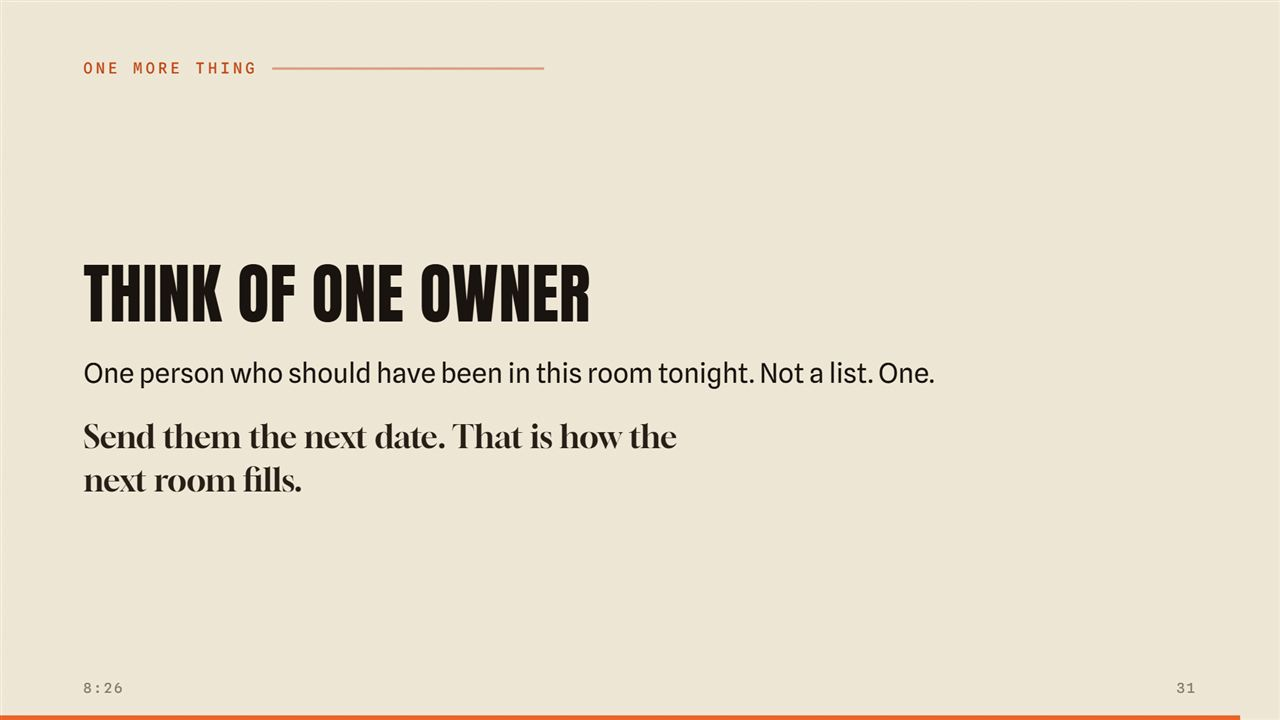
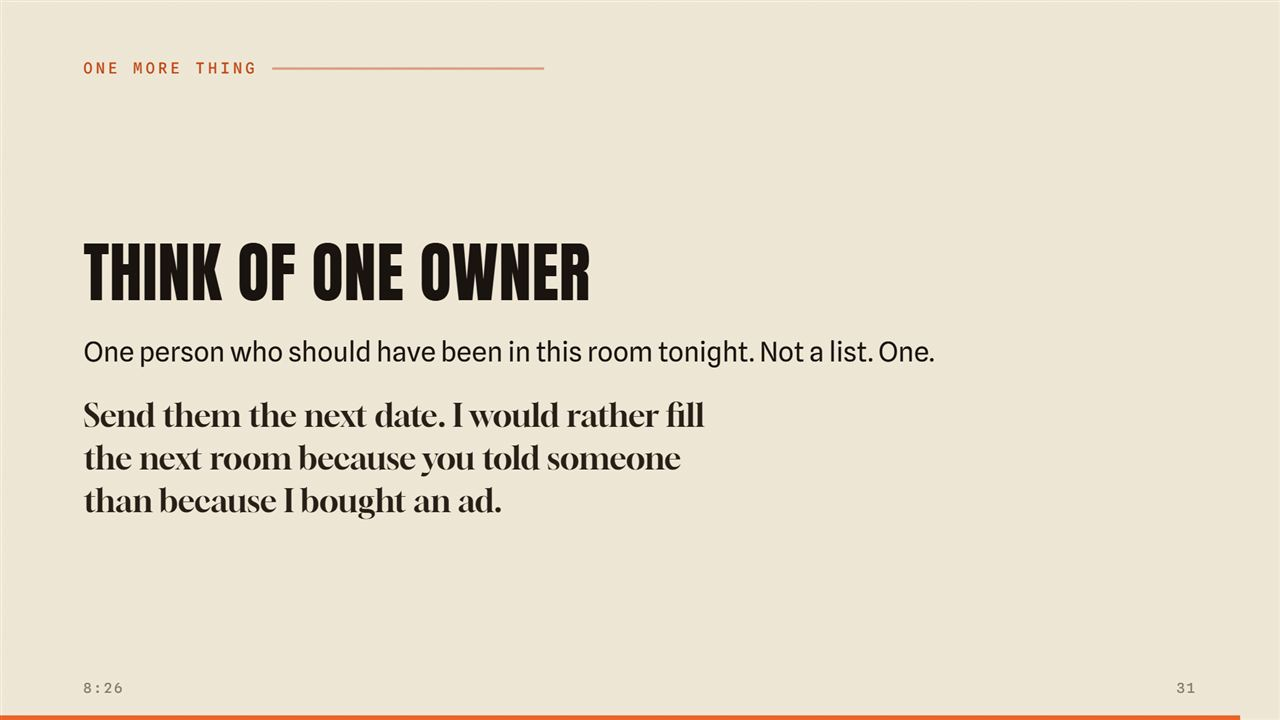
review(workshop-deck): restore the referral point on slide 31, worded to the room
Slide 31: "Send them the next date. I would rather fill the next room
because you told someone than because I bought an ad." Restores the
sentiment that was wrongly deleted, as direct address rather than his
internal accounting.
Slide 9: "the part worth having" -> "the part you want", recovering the
assertiveness the previous rewrite flattened.
Stills for both re-rendered. Overflow audit across all 33 slides: zero.

Changed region(s): [[0.0625, 0.3361, 0.75, 0.7333]]

diff --git a/review/20260730-workshop-deck-full/index.html b/review/20260730-workshop-deck-full/index.html
@@ -209,9 +209,10 @@ pre b{color:var(--molten);font-weight:500}
 </style>
 <style>/* review-copy only: never let the review stamp show on a projected slide */
 :fullscreen #deploy-stamp,:-webkit-full-screen #deploy-stamp{display:none!important}
-@media print{#deploy-stamp{display:none!important}}</style></head>
+@media print{#deploy-stamp{display:none!important}}</style>
+</head>
 <body>
-<!-- DEPLOY_STAMP_START --><div id="deploy-stamp" style="position:fixed;top:8px;right:10px;z-index:99999;font-family:ui-monospace,'SF Mono',SFMono-Regular,Menlo,Consolas,monospace;font-size:11px;line-height:1;color:rgba(165,151,131,0.78);background:rgba(20,18,16,0.72);border:1px solid rgba(236,226,210,0.14);border-radius:6px;padding:4px 8px;letter-spacing:0.02em;backdrop-filter:blur(4px);-webkit-backdrop-filter:blur(4px);pointer-events:none;user-select:none;white-space:nowrap;">v2 · 2026-07-28-09:30:19 MT</div><!-- DEPLOY_STAMP_END -->
+<!-- DEPLOY_STAMP_START --><div id="deploy-stamp" style="position:fixed;top:8px;right:10px;z-index:99999;font-family:ui-monospace,'SF Mono',SFMono-Regular,Menlo,Consolas,monospace;font-size:11px;line-height:1;color:rgba(165,151,131,0.78);background:rgba(20,18,16,0.72);border:1px solid rgba(236,226,210,0.14);border-radius:6px;padding:4px 8px;letter-spacing:0.02em;backdrop-filter:blur(4px);-webkit-backdrop-filter:blur(4px);pointer-events:none;user-select:none;white-space:nowrap;">v3 · 2026-07-28-09:39:59 MT</div><!-- DEPLOY_STAMP_END -->
 
 <div id="deck"><div class="stage" id="stage">
 
@@ -355,7 +356,7 @@ pre b{color:var(--molten);font-weight:500}
   <div class="mid">
     <h1 style="margin-bottom:38px">NOBODY IS BACKSTAGE</h1>
     <p class="lead" style="max-width:36ch;margin-bottom:30px">The page you registered on and the reminder emails that got you here tonight both run on tools I built and I run myself. I am one person. There is nobody behind the curtain.</p>
-    <p class="body wide" style="font-size:34px"><b class="hot">That is the part worth having. Not the chatbot.</b></p>
+    <p class="body wide" style="font-size:34px"><b class="hot">That is the part you want. Not the chatbot.</b></p>
   </div>
   <div class="foot"><span>7:15</span><span>9</span></div>
 </section>
@@ -661,7 +662,7 @@ My decision is: [paste your decision here]</pre>
   <div class="mid">
     <h1 style="margin-bottom:36px">THINK OF ONE OWNER</h1>
     <p class="body wide" style="margin-bottom:28px">One person who should have been in this room tonight. Not a list. One.</p>
-    <p class="lead" style="font-size:40px">Send them the next date. That is how the next room fills.</p>
+    <p class="lead" style="font-size:40px">Send them the next date. I would rather fill the next room because you told someone than because I bought an ad.</p>
   </div>
   <div class="foot"><span>8:26</span><span>31</span></div>
 </section>
